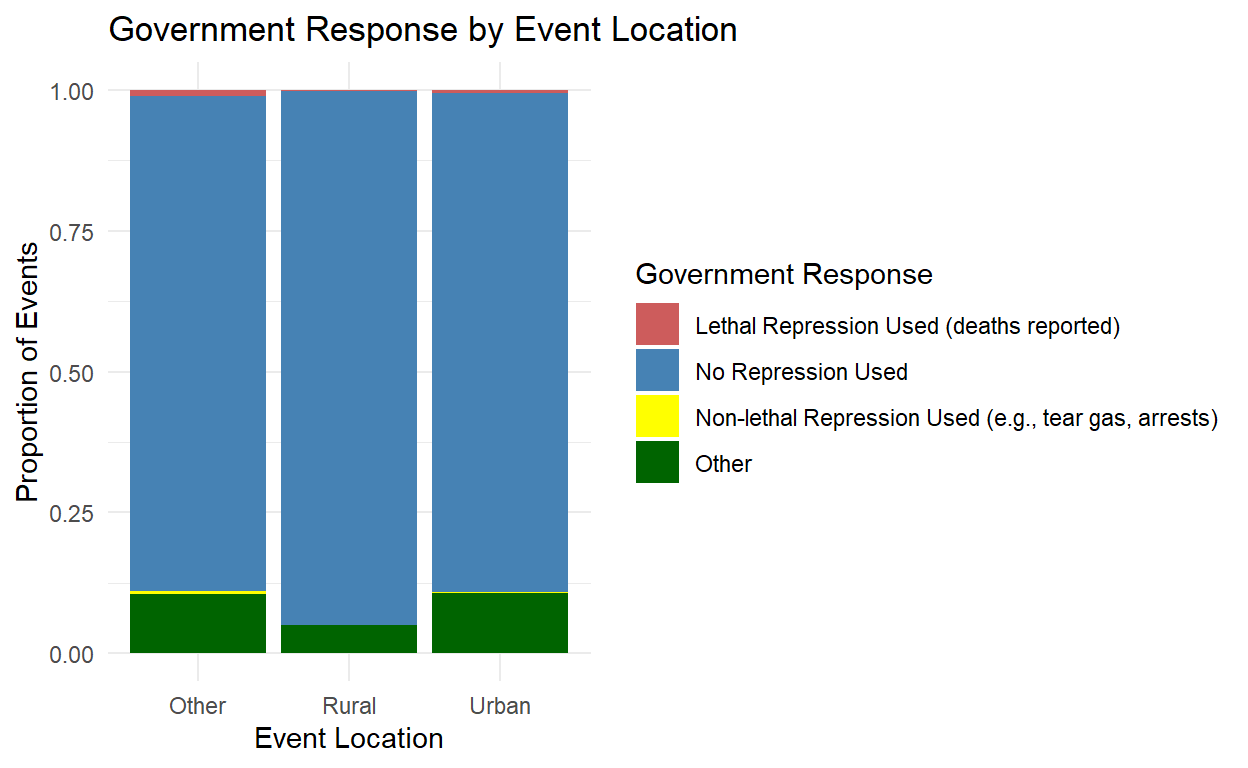
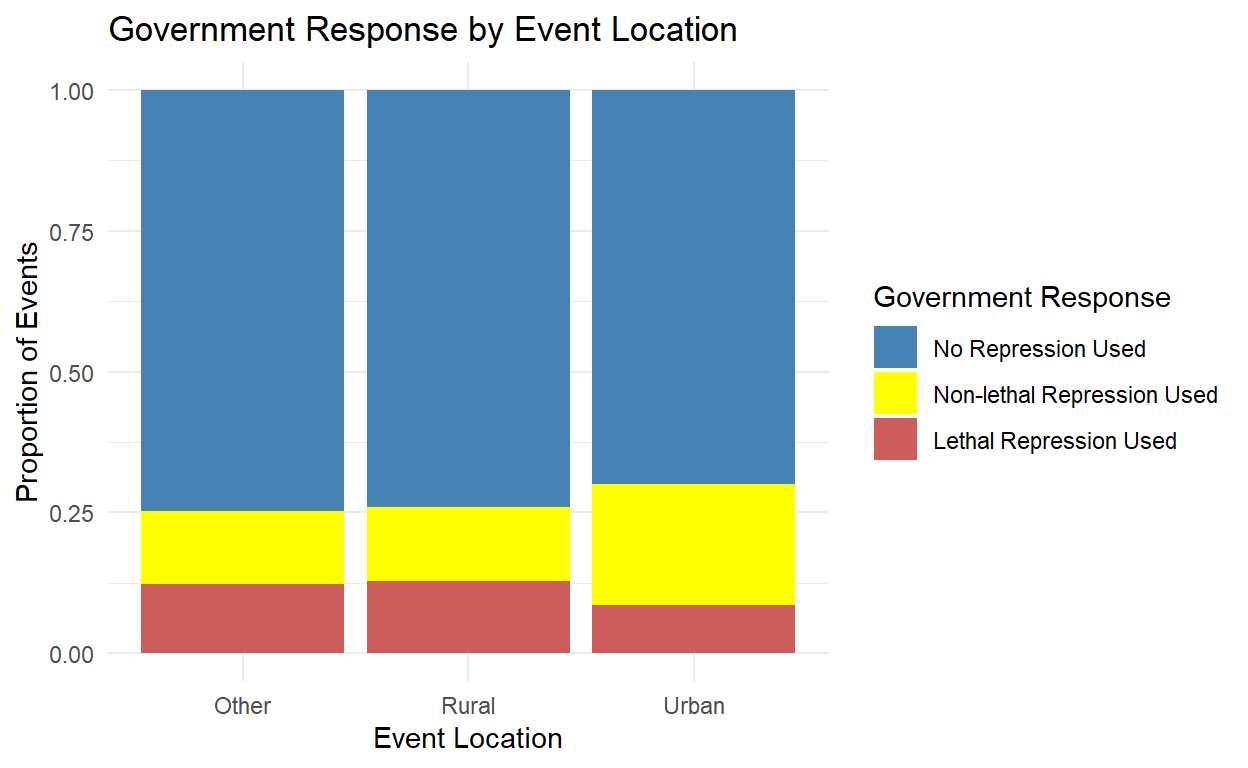
Milestone 4

Changed region(s): [[0.0938, 0.0938, 0.9688, 0.875], [0.125, 0.9062, 0.4688, 1.0], [0.5312, 0.9062, 0.5938, 0.9375]]

diff --git a/index.html b/index.html
@@ -115,7 +115,7 @@ code span.wa { color: #5e5e5e; font-style: italic; } /* Warning */
   <!--/radix_placeholder_rmarkdown_metadata-->
   
   <script type="text/json" id="radix-resource-manifest">
-  {"type":"character","attributes":{},"value":["index_files/anchor-4.2.2/anchor.min.js","index_files/bowser-1.9.3/bowser.min.js","index_files/distill-2.2.21/template.v2.js","index_files/figure-html5/unnamed-chunk-1-1.png","index_files/header-attrs-2.17/header-attrs.js","index_files/header-attrs-2.24/header-attrs.js","index_files/jquery-3.6.0/jquery-3.6.0.js","index_files/jquery-3.6.0/jquery-3.6.0.min.js","index_files/jquery-3.6.0/jquery-3.6.0.min.map","index_files/popper-2.6.0/popper.min.js","index_files/tippy-6.2.7/tippy-bundle.umd.min.js","index_files/tippy-6.2.7/tippy-light-border.css","index_files/tippy-6.2.7/tippy.css","index_files/tippy-6.2.7/tippy.umd.min.js","index_files/webcomponents-2.0.0/webcomponents.js"]}
+  {"type":"character","attributes":{},"value":["index_files/anchor-4.2.2/anchor.min.js","index_files/bowser-1.9.3/bowser.min.js","index_files/distill-2.2.21/template.v2.js","index_files/figure-html5/unnamed-chunk-1-1.png","index_files/figure-html5/unnamed-chunk-2-1.png","index_files/header-attrs-2.17/header-attrs.js","index_files/header-attrs-2.24/header-attrs.js","index_files/jquery-3.6.0/jquery-3.6.0.js","index_files/jquery-3.6.0/jquery-3.6.0.min.js","index_files/jquery-3.6.0/jquery-3.6.0.min.map","index_files/popper-2.6.0/popper.min.js","index_files/tippy-6.2.7/tippy-bundle.umd.min.js","index_files/tippy-6.2.7/tippy-light-border.css","index_files/tippy-6.2.7/tippy.css","index_files/tippy-6.2.7/tippy.umd.min.js","index_files/webcomponents-2.0.0/webcomponents.js"]}
   </script>
   <!--radix_placeholder_navigation_in_header-->
   <!--/radix_placeholder_navigation_in_header-->
@@ -1518,13 +1518,14 @@ code span.wa { color: #5e5e5e; font-style: italic; } /* Warning */
 
 <div class="d-article">
 <h2 id="project-thoughts">Project thoughts</h2>
-<p>Are governments in Africa more likely to use repression or violence against events (violent or nonviolent actions taken) that are located in urban areas? In this study, I plan to examine the relationship between the type of location of events and if they are faced with violence or repression from the government. I hypothesize that events taken at capital cities or major urban areas are faced with repression by the government, and events that are taken at more rural locations face relatively lower repression. I expect to find that events taken at capital cities and major urban areas face more repression. This is because major urban cities allow for easier mobilization and resource allocation for events (violent or nonviolent actions taken) and therefore pose a bigger threat to the government and are consequently faced with more repression. My data set consists of violent and nonviolent actions taken in Africa. My unit of analysis is an event (violent or nonviolent actions taken). My explanatory variable of interest is the location of events or action taken. (Coding of the event locality 1 = Capital city; 2 = Other major urban area (population greater than 100,000); 3 = Rural (including small towns, villages with population less than 100,000); 4 = Multiple urban areas; 5 = Multiple rural areas; 6 = Province/region listed, exact location unknown; 7 = Nationwide. Effects several cities and rural areas; -99 = location unknown). My outcome variable of interest is whether the government used repression or violence against participants in the event. For instance, if the variable were coded 0 = no repression used, 1 = non-lethal repression used (e.g. tear gas, arrests, etc), 2 = lethal repression used (there must be deaths reported). This variable is measured from the Social Conflict Analysis Database (SCAD). If I observe greater repression usage for actions in major cities or urban areas, this would provide support for my hypothesis. If, on the other hand, I observe lower repression usage or the same level of repression as in rural areas, this would provide evidence against my hypothesis. When I run my regression of the count of events in urban areas and major cities on the repression variable, a positive, significant coefficient would indicate support for my hypothesis.</p>
+<p>Are governments in Africa more likely to use repression or violence against events (violent or nonviolent actions taken) that are located in urban areas? In this study, I plan to examine the relationship between the type of location of events and if they are faced with violence or repression from the government. I hypothesize that events taken at capital cities or major urban areas are faced with repression by the government, and events that are taken at more rural locations face relatively lower repression. I expect to find that events taken at capital cities and major urban areas face more repression. This is because major urban cities allow for easier mobilization and resource allocation for events (violent or nonviolent actions taken) and therefore pose a bigger threat to the government and are consequently faced with more repression. My data set consists of violent and nonviolent actions taken in Africa. My unit of analysis is an event (violent or nonviolent actions taken). My explanatory variable of interest is the location of events or action taken. (Coding of the event locality 1 = Capital city; 2 = Other major urban area (population greater than 100,000); 3 = Rural (including small towns, villages with population less than 100,000); 4 = Multiple urban areas; 5 = Multiple rural areas; 6 = Province/region listed, exact location unknown; 7 = Nationwide. Effects several cities and rural areas; -99 = location unknown). My outcome variable of interest is “repress”, whether the government used repression or violence against participants in the event. Coding of the repression variable 0 = no repression used, 1 = non-lethal repression used (e.g. tear gas, arrests, etc), 2 = lethal repression used (there must be deaths reported). This variable is measured from the Social Conflict Analysis Database (SCAD). If I observe greater repression usage for actions in major cities or urban areas, this would provide support for my hypothesis. If, on the other hand, I observe lower repression usage or the same level of repression as in rural areas, this would provide evidence against my hypothesis. When I run my regression of the count of events in urban areas and major cities on the repression variable, a positive, significant coefficient would indicate support for my hypothesis.</p>
 <h2 id="milestone-3-data-visualization">Milestone 3: Data Visualization</h2>
 <div class="layout-chunk" data-layout="l-body">
 <div class="sourceCode">
 <pre class="sourceCode r"><code class="sourceCode r"><span><span class='kw'><a href='https://rdrr.io/r/base/library.html'>library</a></span><span class='op'>(</span><span class='va'><a href='https://tidyverse.tidyverse.org'>tidyverse</a></span><span class='op'>)</span></span>
 <span></span>
 <span><span class='va'>Data1</span> <span class='op'>&lt;-</span> <span class='fu'><a href='https://readr.tidyverse.org/reference/read_delim.html'>read_csv</a></span><span class='op'>(</span><span class='st'>"C:\\Users\\temit\\OneDrive\\GOV50\\Final GOV 50 Project\\SCAD2018Africa_Final.csv"</span><span class='op'>)</span></span>
+<span></span>
 <span></span>
 <span><span class='co'># Create a binary variable for urban or rural</span></span>
 <span><span class='va'>Data1</span> <span class='op'>&lt;-</span> <span class='va'>Data1</span> <span class='op'>|&gt;</span></span>
@@ -1534,14 +1535,10 @@ code span.wa { color: #5e5e5e; font-style: italic; } /* Warning */
 <span>    <span class='cn'>TRUE</span> <span class='op'>~</span> <span class='st'>"Other"</span> <span class='co'># For the remaining locations</span></span>
 <span>  <span class='op'>)</span><span class='op'>)</span></span>
 <span></span>
-<span><span class='co'># Create a GovResponse variable based on the escalation variable</span></span>
+<span></span>
+<span><span class='co'># Rename the "repress" variable to "GovResponse"</span></span>
 <span><span class='va'>Data1</span> <span class='op'>&lt;-</span> <span class='va'>Data1</span> <span class='op'>|&gt;</span></span>
-<span>  <span class='fu'><a href='https://dplyr.tidyverse.org/reference/mutate.html'>mutate</a></span><span class='op'>(</span>GovResponse <span class='op'>=</span> <span class='fu'><a href='https://dplyr.tidyverse.org/reference/case_when.html'>case_when</a></span><span class='op'>(</span></span>
-<span>    <span class='va'>escalation</span> <span class='op'>==</span> <span class='fl'>0</span> <span class='op'>~</span> <span class='st'>"No Repression Used"</span>,</span>
-<span>    <span class='va'>escalation</span> <span class='op'>==</span> <span class='fl'>1</span> <span class='op'>~</span> <span class='st'>"Non-lethal Repression Used (e.g., tear gas, arrests)"</span>,</span>
-<span>    <span class='va'>escalation</span> <span class='op'>==</span> <span class='fl'>2</span> <span class='op'>~</span> <span class='st'>"Lethal Repression Used (deaths reported)"</span>,</span>
-<span>    <span class='cn'>TRUE</span> <span class='op'>~</span> <span class='st'>"Other"</span> <span class='co'># For other cases</span></span>
-<span>  <span class='op'>)</span><span class='op'>)</span></span>
+<span>  <span class='fu'><a href='https://dplyr.tidyverse.org/reference/mutate.html'>mutate</a></span><span class='op'>(</span>GovResponse <span class='op'>=</span> <span class='fu'><a href='https://rdrr.io/r/base/factor.html'>factor</a></span><span class='op'>(</span><span class='va'>repress</span>, levels <span class='op'>=</span> <span class='fu'><a href='https://rdrr.io/r/base/c.html'>c</a></span><span class='op'>(</span><span class='st'>"0"</span>, <span class='st'>"1"</span>, <span class='st'>"2"</span><span class='op'>)</span><span class='op'>)</span><span class='op'>)</span></span>
 <span></span>
 <span><span class='co'># Create a data visualization</span></span>
 <span><span class='va'>Data1</span> <span class='op'>|&gt;</span></span>
@@ -1557,10 +1554,62 @@ code span.wa { color: #5e5e5e; font-style: italic; } /* Warning */
 <span>    y <span class='op'>=</span> <span class='st'>"Proportion of Events"</span>,</span>
 <span>    fill <span class='op'>=</span> <span class='st'>"Government Response"</span></span>
 <span>  <span class='op'>)</span> <span class='op'>+</span></span>
-<span>  <span class='fu'><a href='https://ggplot2.tidyverse.org/reference/scale_manual.html'>scale_fill_manual</a></span><span class='op'>(</span>values <span class='op'>=</span> <span class='fu'><a href='https://rdrr.io/r/base/c.html'>c</a></span><span class='op'>(</span><span class='st'>"No Repression Used"</span> <span class='op'>=</span> <span class='st'>"steelblue"</span>, <span class='st'>"Non-lethal Repression Used (e.g., tear gas, arrests)"</span> <span class='op'>=</span> <span class='st'>"yellow"</span>, <span class='st'>"Lethal Repression Used (deaths reported)"</span> <span class='op'>=</span> <span class='st'>"indianred"</span>, <span class='st'>"Other"</span> <span class='op'>=</span> <span class='st'>"darkgreen"</span><span class='op'>)</span><span class='op'>)</span> <span class='op'>+</span></span>
+<span>  <span class='fu'><a href='https://ggplot2.tidyverse.org/reference/scale_manual.html'>scale_fill_manual</a></span><span class='op'>(</span></span>
+<span>    values <span class='op'>=</span> <span class='fu'><a href='https://rdrr.io/r/base/c.html'>c</a></span><span class='op'>(</span><span class='st'>"0"</span> <span class='op'>=</span> <span class='st'>"steelblue"</span>, <span class='st'>"1"</span> <span class='op'>=</span> <span class='st'>"yellow"</span>, <span class='st'>"2"</span> <span class='op'>=</span> <span class='st'>"indianred"</span><span class='op'>)</span>,</span>
+<span>    labels <span class='op'>=</span> <span class='fu'><a href='https://rdrr.io/r/base/c.html'>c</a></span><span class='op'>(</span><span class='st'>"No Repression Used"</span>, <span class='st'>"Non-lethal Repression Used"</span>, <span class='st'>"Lethal Repression Used"</span><span class='op'>)</span></span>
+<span>  <span class='op'>)</span> <span class='op'>+</span></span>
 <span>  <span class='fu'><a href='https://ggplot2.tidyverse.org/reference/ggtheme.html'>theme_minimal</a></span><span class='op'>(</span><span class='op'>)</span></span></code></pre>
 </div>
 <p><img src="index_files/figure-html5/unnamed-chunk-1-1.png" width="624" /></p>
+</div>
+<h2 id="milestone-4-analysis">Milestone 4: Analysis</h2>
+<p>This second visualization analyzes the outcome variable, ‘Government response’, in relation to another categorical variable, ‘issue1’. The focus is on understanding the variation in government use of repression during events, based on the first issue mentioned as the primary source of tension leading to the taken action (violent or nonviolent). The initial visualization did not provide a substantial difference in government repression across our x variable, location. To better understand the factors influencing government repression, we utilize the ‘issue1’ categorical variable, testing it across each category (1 = elections; 2 = economy, jobs; 3 = food, water, subsistence; 4 = environmental degradation; 5 = ethnic discrimination, ethnic issues; 6 = religious discrimination, religious issues; 7 = education; 8 = foreign affairs/relations; 9 = domestic war, violence, terrorism; 10 = human rights, democracy; 11 = pro-government; 12 = economic resources/assets; 13 = other; 14 = unknown, not-specified). This analysis reveals significant variation in the types of issues prompting government repression.</p>
+<div class="layout-chunk" data-layout="l-body">
+<div class="sourceCode">
+<pre class="sourceCode r"><code class="sourceCode r"><span><span class='co'># Create a second data visualization showing how the type of issue influences repression tactic</span></span>
+<span><span class='va'>Data2</span> <span class='op'>&lt;-</span> <span class='fu'><a href='https://rdrr.io/r/base/subset.html'>subset</a></span><span class='op'>(</span><span class='va'>Data1</span>, <span class='va'>issue1</span> <span class='op'>!=</span> <span class='op'>-</span><span class='fl'>99</span><span class='op'>)</span></span>
+<span></span>
+<span><span class='co'># Name my issue1 categorical variable</span></span>
+<span><span class='va'>Data2</span> <span class='op'>&lt;-</span> <span class='va'>Data2</span> <span class='op'>|&gt;</span></span>
+<span>  <span class='fu'><a href='https://dplyr.tidyverse.org/reference/mutate.html'>mutate</a></span><span class='op'>(</span>issue1 <span class='op'>=</span> <span class='fu'><a href='https://dplyr.tidyverse.org/reference/case_when.html'>case_when</a></span><span class='op'>(</span></span>
+<span>    <span class='va'>issue1</span> <span class='op'>==</span> <span class='fl'>1</span> <span class='op'>~</span> <span class='st'>"elections"</span>,</span>
+<span>    <span class='va'>issue1</span> <span class='op'>==</span> <span class='fl'>2</span> <span class='op'>~</span> <span class='st'>"economy, jobs"</span>,</span>
+<span>    <span class='va'>issue1</span> <span class='op'>==</span> <span class='fl'>3</span> <span class='op'>~</span> <span class='st'>"food, water, subsistence"</span>,</span>
+<span>    <span class='va'>issue1</span> <span class='op'>==</span> <span class='fl'>4</span> <span class='op'>~</span> <span class='st'>"environmental degradation"</span>,</span>
+<span>    <span class='va'>issue1</span> <span class='op'>==</span> <span class='fl'>5</span> <span class='op'>~</span> <span class='st'>"ethnic discrimination, ethnic issues"</span>,</span>
+<span>    <span class='va'>issue1</span> <span class='op'>==</span> <span class='fl'>6</span> <span class='op'>~</span> <span class='st'>"religious discrimination, religious issues"</span>,</span>
+<span>    <span class='va'>issue1</span> <span class='op'>==</span> <span class='fl'>7</span> <span class='op'>~</span> <span class='st'>"education"</span>,</span>
+<span>    <span class='va'>issue1</span> <span class='op'>==</span> <span class='fl'>8</span> <span class='op'>~</span> <span class='st'>"foreign affairs/relations"</span>,</span>
+<span>    <span class='va'>issue1</span> <span class='op'>==</span> <span class='fl'>9</span> <span class='op'>~</span> <span class='st'>"domestic war, violence, terrorism"</span>,</span>
+<span>    <span class='va'>issue1</span> <span class='op'>==</span> <span class='fl'>10</span> <span class='op'>~</span> <span class='st'>"human rights, democracy"</span>,</span>
+<span>    <span class='va'>issue1</span> <span class='op'>==</span> <span class='fl'>11</span> <span class='op'>~</span> <span class='st'>"pro-government"</span>,</span>
+<span>    <span class='va'>issue1</span> <span class='op'>==</span> <span class='fl'>12</span> <span class='op'>~</span> <span class='st'>"economic resources/assets"</span>,</span>
+<span>    <span class='va'>issue1</span> <span class='op'>==</span> <span class='fl'>13</span> <span class='op'>~</span> <span class='st'>"other"</span>,</span>
+<span>    <span class='va'>issue1</span> <span class='op'>==</span> <span class='fl'>14</span> <span class='op'>~</span> <span class='st'>"unknown, not-specified"</span></span>
+<span>  <span class='op'>)</span><span class='op'>)</span></span>
+<span></span>
+<span></span>
+<span><span class='va'>Data2</span> <span class='op'>|&gt;</span></span>
+<span>  <span class='fu'><a href='https://dplyr.tidyverse.org/reference/group_by.html'>group_by</a></span><span class='op'>(</span><span class='va'>issue1</span>, <span class='va'>GovResponse</span><span class='op'>)</span> <span class='op'>|&gt;</span></span>
+<span>  <span class='fu'><a href='https://dplyr.tidyverse.org/reference/summarise.html'>summarize</a></span><span class='op'>(</span>Count <span class='op'>=</span> <span class='fu'><a href='https://dplyr.tidyverse.org/reference/context.html'>n</a></span><span class='op'>(</span><span class='op'>)</span><span class='op'>)</span> <span class='op'>|&gt;</span></span>
+<span>  <span class='fu'><a href='https://dplyr.tidyverse.org/reference/group_by.html'>group_by</a></span><span class='op'>(</span><span class='va'>issue1</span><span class='op'>)</span> <span class='op'>|&gt;</span></span>
+<span>  <span class='fu'><a href='https://dplyr.tidyverse.org/reference/mutate.html'>mutate</a></span><span class='op'>(</span>Proportion <span class='op'>=</span> <span class='va'>Count</span> <span class='op'>/</span> <span class='fu'><a href='https://rdrr.io/r/base/sum.html'>sum</a></span><span class='op'>(</span><span class='va'>Count</span><span class='op'>)</span><span class='op'>)</span> <span class='op'>|&gt;</span></span>
+<span>  <span class='fu'><a href='https://ggplot2.tidyverse.org/reference/ggplot.html'>ggplot</a></span><span class='op'>(</span><span class='fu'><a href='https://ggplot2.tidyverse.org/reference/aes.html'>aes</a></span><span class='op'>(</span>x <span class='op'>=</span> <span class='va'>issue1</span>, y <span class='op'>=</span> <span class='va'>Proportion</span>, fill <span class='op'>=</span> <span class='va'>GovResponse</span><span class='op'>)</span><span class='op'>)</span> <span class='op'>+</span></span>
+<span>  <span class='fu'><a href='https://ggplot2.tidyverse.org/reference/geom_bar.html'>geom_bar</a></span><span class='op'>(</span>stat <span class='op'>=</span> <span class='st'>"identity"</span><span class='op'>)</span> <span class='op'>+</span></span>
+<span>  <span class='fu'><a href='https://ggplot2.tidyverse.org/reference/labs.html'>labs</a></span><span class='op'>(</span></span>
+<span>    title <span class='op'>=</span> <span class='st'>"Government Response by Event Location"</span>,</span>
+<span>    x <span class='op'>=</span> <span class='st'>"First issue that started action taken"</span>,</span>
+<span>    y <span class='op'>=</span> <span class='st'>"% of Repression Tactics"</span>,</span>
+<span>    fill <span class='op'>=</span> <span class='st'>"Government Response"</span></span>
+<span>  <span class='op'>)</span> <span class='op'>+</span></span>
+<span>  <span class='fu'><a href='https://ggplot2.tidyverse.org/reference/scale_manual.html'>scale_fill_manual</a></span><span class='op'>(</span></span>
+<span>    values <span class='op'>=</span> <span class='fu'><a href='https://rdrr.io/r/base/c.html'>c</a></span><span class='op'>(</span><span class='st'>"0"</span> <span class='op'>=</span> <span class='st'>"steelblue"</span>, <span class='st'>"1"</span> <span class='op'>=</span> <span class='st'>"yellow"</span>, <span class='st'>"2"</span> <span class='op'>=</span> <span class='st'>"indianred"</span><span class='op'>)</span>,</span>
+<span>    labels <span class='op'>=</span> <span class='fu'><a href='https://rdrr.io/r/base/c.html'>c</a></span><span class='op'>(</span><span class='st'>"No Repression Used"</span>, <span class='st'>"Non-lethal Repression Used"</span>, <span class='st'>"Lethal Repression Used"</span><span class='op'>)</span></span>
+<span>  <span class='op'>)</span> <span class='op'>+</span></span>
+<span>  <span class='fu'><a href='https://ggplot2.tidyverse.org/reference/theme.html'>theme</a></span><span class='op'>(</span>axis.text.x <span class='op'>=</span> <span class='fu'><a href='https://ggplot2.tidyverse.org/reference/element.html'>element_text</a></span><span class='op'>(</span>angle <span class='op'>=</span> <span class='fl'>90</span><span class='op'>)</span><span class='op'>)</span> <span class='op'>+</span></span>
+<span>  <span class='fu'><a href='https://ggplot2.tidyverse.org/reference/ggtheme.html'>theme_minimal</a></span><span class='op'>(</span><span class='op'>)</span></span></code></pre>
+</div>
+<p><img src="index_files/figure-html5/unnamed-chunk-2-1.png" width="624" /></p>
 </div>
 <div class="sourceCode" id="cb1"><pre class="sourceCode r distill-force-highlighting-css"><code class="sourceCode r"></code></pre></div>
 <!--radix_placeholder_article_footer-->
